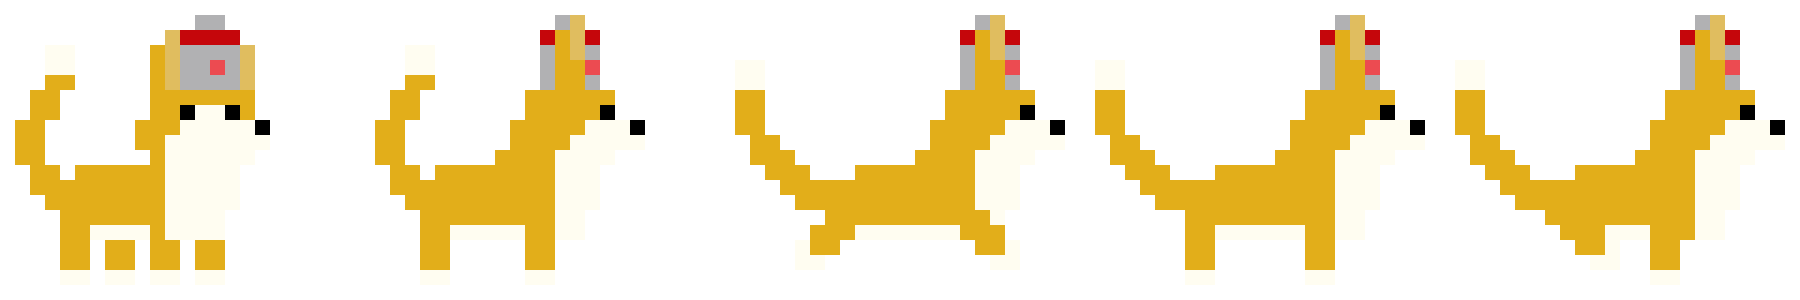
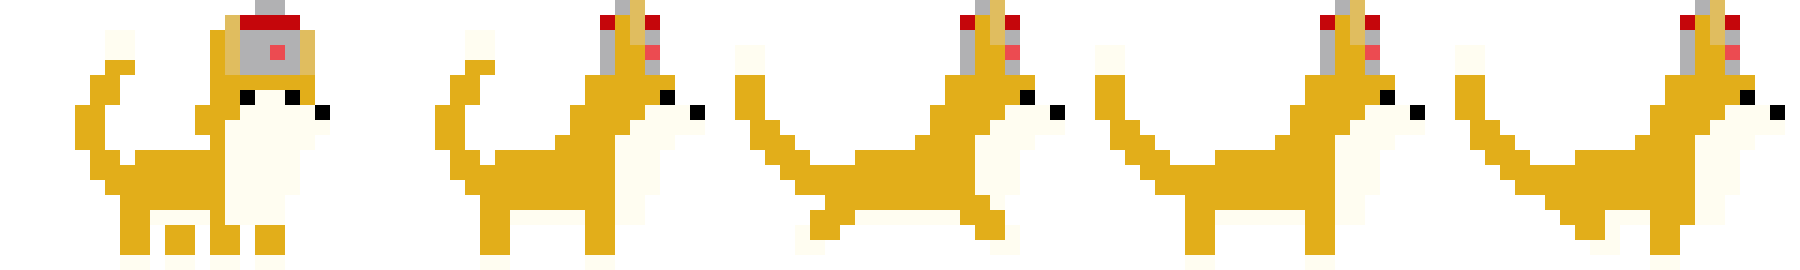
jumping

diff --git a/src/HelloWorld.js b/src/HelloWorld.js
@@ -7,17 +7,19 @@ export default class HelloWorldScene extends Phaser.Scene
     }
     init(){
         this.platforms = undefined
-
         this.player = undefined
         this.companion = undefined
+        this.obstacles = undefined
 
-        this.cursors = undefined
+        this.cursors = undefined   
+        this.grounded = true
     }
     preload(){
         this.load.image('background', 'images/background (placeholder).png')
         this.load.image('platform', 'images/platform (placeholder).png')
-        this.load.spritesheet('Tulip', 'images/tulip & one-one.png', {frameWidth: 405, frameHeight: 570})
-        this.load.spritesheet('Atticus', 'images/atticus.png', {frameWidth: 360, frameHeight: 300})
+        this.load.image('obstacle', 'images/rock.png')
+        this.load.spritesheet('Tulip', 'images/tulip & one-one.png', {frameWidth: 405, frameHeight: 540})
+        this.load.spritesheet('Atticus', 'images/atticus.png', {frameWidth: 360, frameHeight: 270})
     }
     create(){
         this.add.image(400, 300, 'background')
@@ -36,24 +38,36 @@ export default class HelloWorldScene extends Phaser.Scene
         })
 
         this.companion = this.physics.add.sprite(200, 502, 'Atticus').setScale(0.25)
+        this.companion.setCollideWorldBounds(true)
         this.physics.add.collider(this.companion, this.platforms)
         this.physics.add.overlap(this.player, this.companion)
         this.anims.create({
             key: 'a tourginia of corginia',
             frames: this.anims.generateFrameNumbers('Atticus', {start: 1, end: 4}),
-            frameRate: 3,
+            frameRate: 5,
             repeat: -1
+        })
+
+        this.obstacles = this.physics.add.group({
+            key: 'rocks',
+            repeat: 5,
+            setXY: {x: 50, y: 0, stepX: 70}
         })
 
         this.cursors = this.input.keyboard.createCursorKeys()
     }
     update(){
-        if (this.cursors.right.isDown){
-            this.player.setVelocityX(30)
-            this.player.anims.play('running away', true)
+        this.player.setVelocityX(50)
+        this.player.anims.play('running away', true)
+        this.companion.setVelocityX(80)
+        this.companion.anims.play('a tourginia of corginia', true)
+        if (this.cursors.up.isDown && this.grounded){
+            this.player.setVelocityY(-200)
+            this.grounded = false
+            this.time.delayedCall(2000, this.endJump, [], this)
         }
-        if (this.cursors.up.isDown){
-            this.player.setVelocityY(-40)
-        }
+    }
+    endJump(){
+        this.grounded = true
     }
 }
